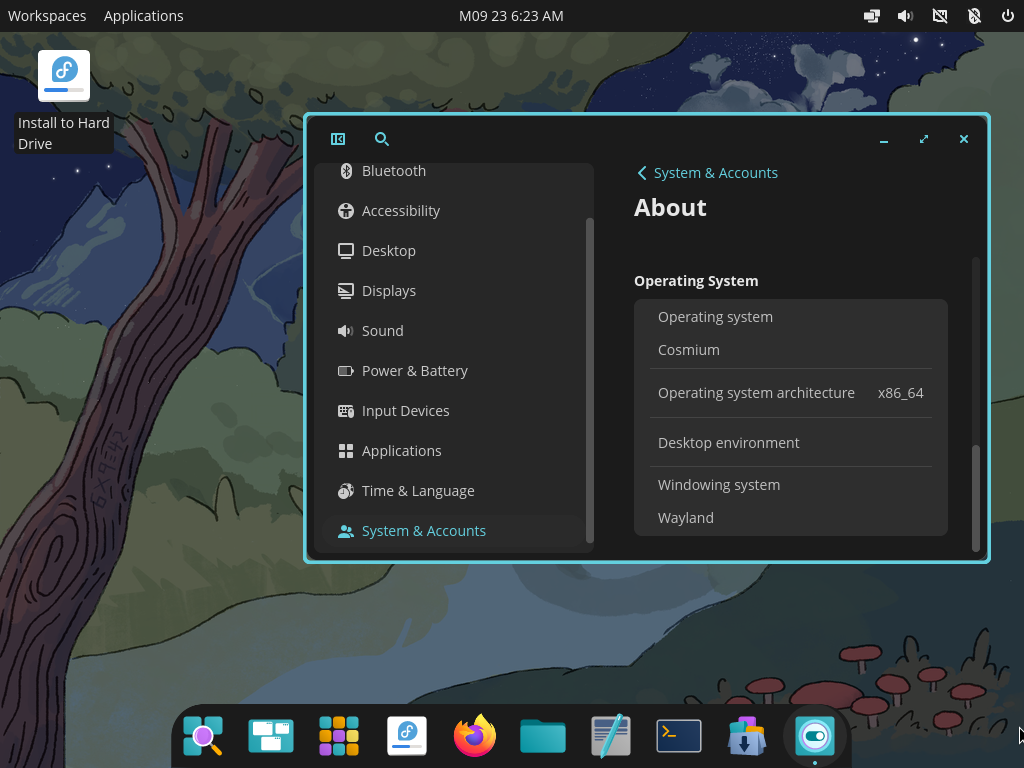
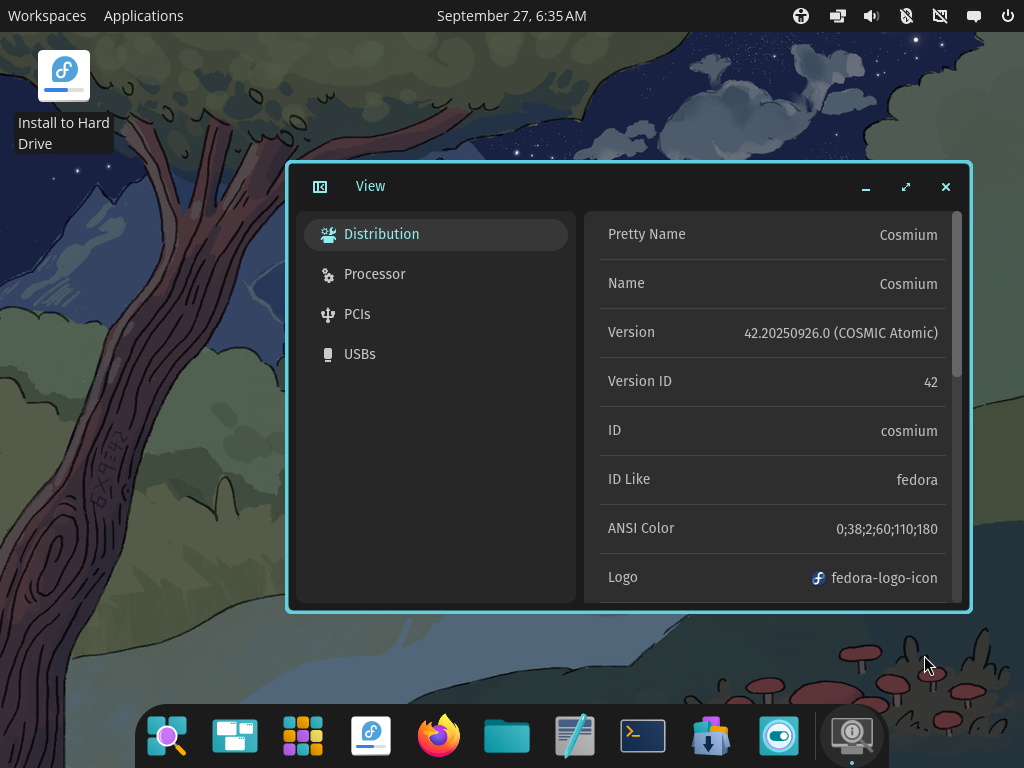
chore: change screenshot and TODOs

diff --git a/README.md b/README.md
@@ -1,19 +1,19 @@
 # Cosmium [WIP]
 
-![Screenshot of Live ISO environment of Cosmium showing an opened window of COSMIC Settings on About page](.github/imgs/screenshot-about.png)
+![Screenshot of Live ISO environment of Cosmium showing an opened window of Examine app](.github/imgs/screenshot-about.png)
 
 Note: to test it out on QEMU/Virt-manager, switch display input from Virtio to QXL. (not exclusive to Cosmium btw)
 
 Latest Live ISO builds (you have to be logged in to GitHub):
 - **Stable**: https://github.com/Cosmium-OS/Cosmium/actions/workflows/build-iso-live.yml?query=is%3Asuccess
-- **Testing (even more updates than stable)**: https://github.com/Cosmium-OS/Cosmium/actions/workflows/build-iso-live-testing.yml?query=is%3Asuccess
+- **Testing** (even more updates than stable): https://github.com/Cosmium-OS/Cosmium/actions/workflows/build-iso-live-testing.yml?query=is%3Asuccess
 
 Grab the latest successful artifact for either Desktop or Gaming Handheld Edition (`cosmium` or `cosmium-deck`). No matter for how long those ISOs wasn't updated, you can still perform an update by running `sudo bootc update` no matter what. New builds would be triggered when it is appropriate to do so (like changing branding, new flatpak apps, fixes to Live ISO environment, etc). We're using Universal Blue's [titanoboa](https://github.com/ublue-os/titanoboa) to make this happen :).
 
 TODO: 
 - [ ] (Re-)rewrite this file
-- [ ] Fix timezone weirdness on Live ISO environment (look up on screenshot)
-- [ ] Change favorite apps on dock for Live ISO environment
+- [x] Fix timezone weirdness on Live ISO environment (it fixed itself apparently)
+- [ ] Change favorite apps on dock for Live ISO environment (I have to fork livesys pkg probably)
 - [ ] COSMIC focuses on Steam Keyboard, making it impossible to type from Steam Deck (presense on Gaming Handheld Edition)
 - [ ] ... because of that maybe enable on-screen keyboard that is compatible with COSMIC?
 - [ ] Remove COSMIC Store and replace it with configured Bazaar (we already have both installed, Bazaar isn't configured)
@@ -22,8 +22,9 @@ TODO:
 - [ ] Switch to Anaconda WebUI when it is stable enough
 - [ ] Add more third-party themes to the system and maybe even widgets
 - [x] Switch to own underlying image of Fedora COSMIC Atomic ~~when Universal Blue will [deprecated it](https://github.com/ublue-os/main/issues/927)~~ ([`cosmic-atomic-custom`](https://github.com/Cosmium-OS/cosmic-atomic-custom), do it like Winblues does)
-- [ ] Add Nvidia-open variants
+- [ ] Add Nvidia-open variants (can be done in cosmic-atomic-custom for now)
 - [ ] Do a proper branding
 - [ ] Figure out secure boot and kernel signing
+- [ ] Turn off compiling akmods for no reason
 
 Thanks to https://github.com/askpng/solarpowered for providing some hack for installing Bazzite kernel!
